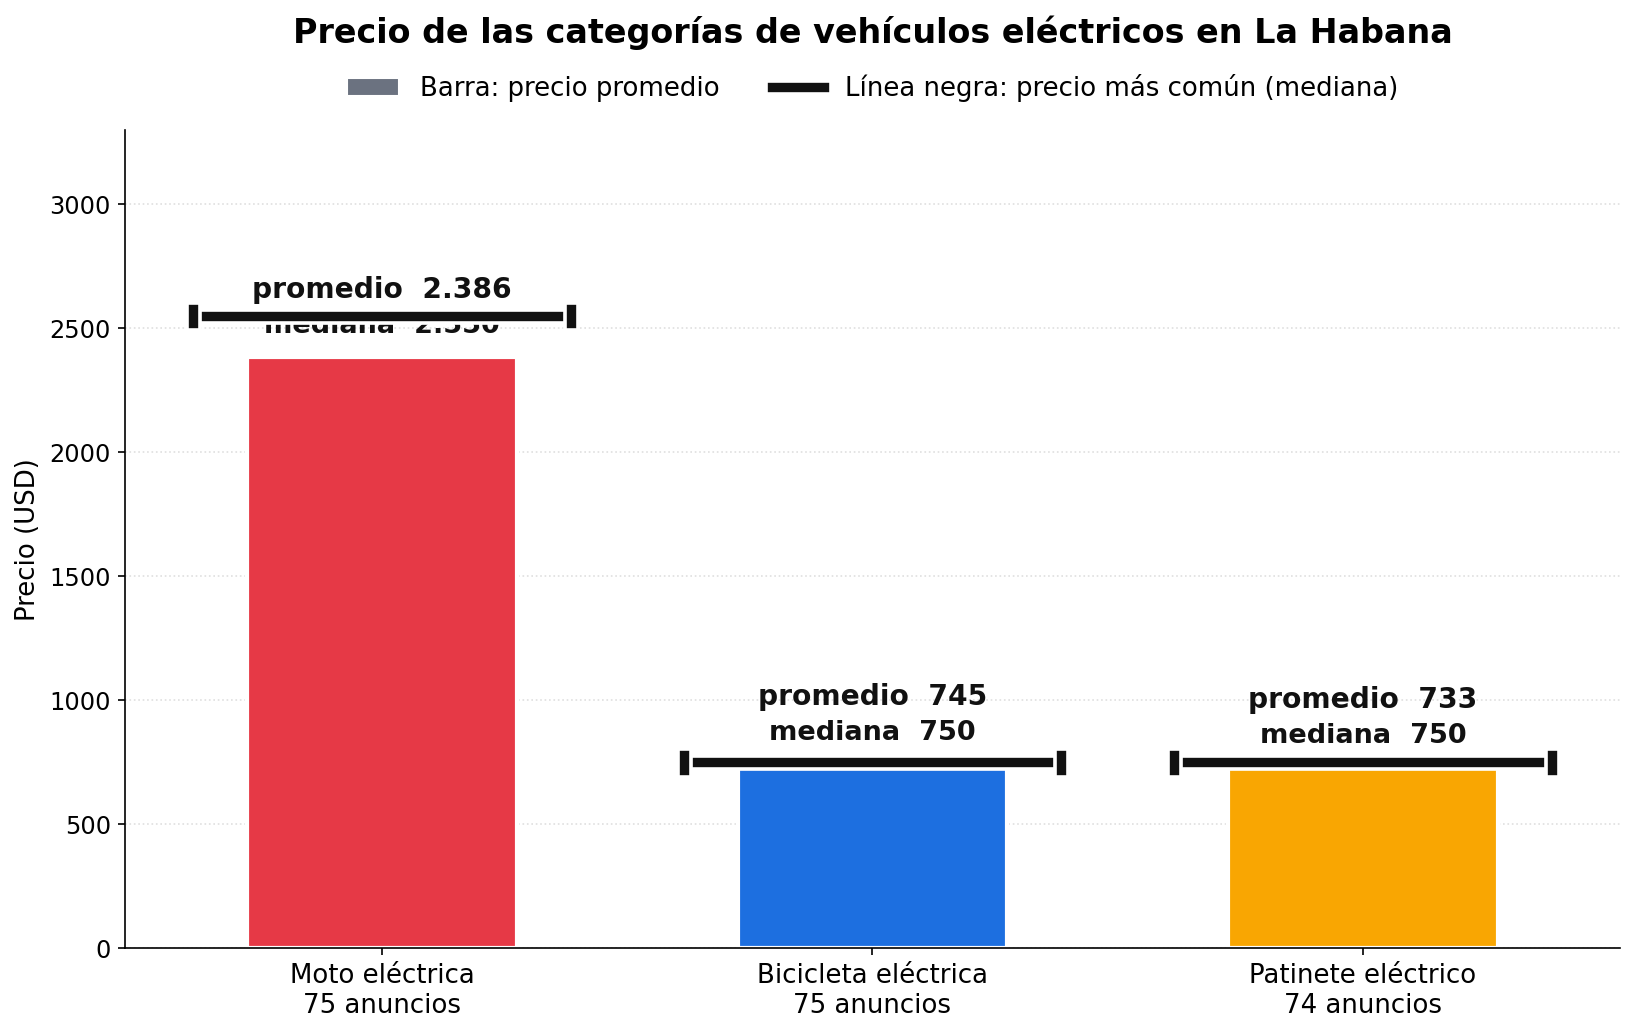
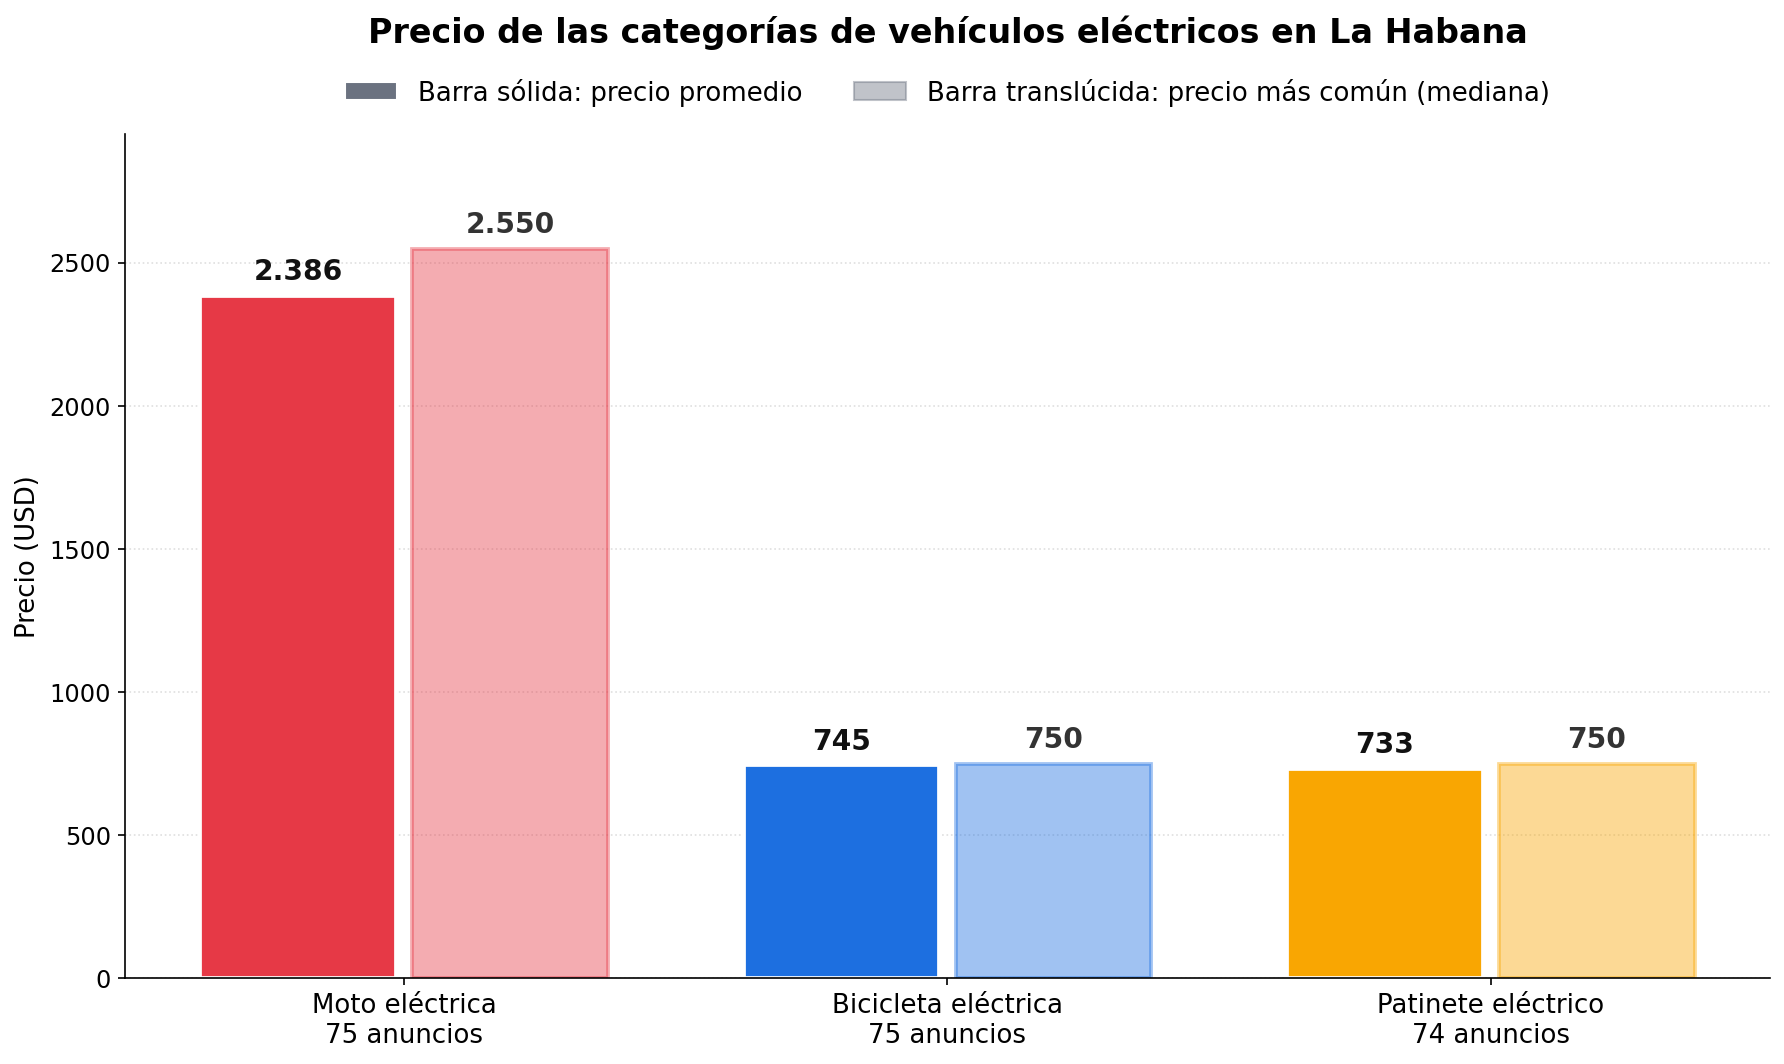
Mediana como barra contigua, sin tabla de fuentes y parrafo de fuentes en la introduccion

Changed region(s): [[0.0, 0.1857, 0.9988, 0.9903], [0.1873, 0.0, 0.9051, 0.0928], [0.0312, 0.1857, 0.0936, 0.2785]]

diff --git a/analisis.py b/analisis.py
@@ -30,7 +30,6 @@ import json
 import statistics as stat
 from pathlib import Path
 
-import matplotlib.patheffects as pe
 import matplotlib.pyplot as plt
 
 # ==============================================================================
@@ -262,56 +261,49 @@ def _leyenda_arriba(ax, casos):
 # --------------------------------- graficos (revolico)
 
 def figura_precios(ruta: Path | None = None):
-    """Barras verticales: precio promedio de cada categoria, con la mediana marcada."""
+    """Barras agrupadas: precio promedio y precio mas comun de cada categoria."""
     resumen = resumen_precios()
 
     nombres = [ETIQUETAS[c] for c in ORDEN]
     promedios = [resumen[c]["promedio"] for c in ORDEN]
     medianas = [resumen[c]["mediana"] for c in ORDEN]
 
-    fig, ax = plt.subplots(figsize=(11, 7))
-    posiciones = list(range(len(nombres)))
-    ancho = 0.55
-    medio = ancho / 2
+    fig, ax = plt.subplots(figsize=(12, 7.2))
+    ancho = 0.36
+    separacion = ancho + 0.03
 
-    ax.bar(posiciones, promedios, ancho,
-           color=[COLORES[c] for c in ORDEN], edgecolor="white", linewidth=2, zorder=2)
+    colores = [COLORES[c] for c in ORDEN]
+    rango = range(len(nombres))
+    centro_promedio = [p - separacion / 2 for p in rango]
+    centro_mediana = [p + separacion / 2 for p in rango]
 
-    # marca de la mediana: linea negra que sobresale de la barra, con borde blanco
-    for p, mediana in zip(posiciones, medianas):
-        ax.plot([p - medio - 0.11, p + medio + 0.11], [mediana, mediana],
-                color="#111111", linewidth=4.5, zorder=4, solid_capstyle="butt",
-                path_effects=[pe.withStroke(linewidth=8, foreground="white")])
-        for extremo in (p - medio - 0.11, p + medio + 0.11):
-            ax.plot([extremo, extremo], [mediana - 30, mediana + 30],
-                    color="#111111", linewidth=4.5, zorder=4,
-                    path_effects=[pe.withStroke(linewidth=8, foreground="white")])
+    ax.bar(centro_promedio, promedios, ancho,
+           color=colores, edgecolor="white", linewidth=1.8, zorder=2)
+    ax.bar(centro_mediana, medianas, ancho,
+           color=colores, alpha=0.42, edgecolor=colores, linewidth=1.8, zorder=2)
 
-    for p, categoria in zip(posiciones, ORDEN):
-        r = resumen[categoria]
-        ax.text(p, r["promedio"] + 235, f"promedio  {r['promedio']:,.0f}".replace(",", "."),
+    for centro, valor in zip(centro_promedio, promedios):
+        ax.text(centro, valor + 55, f"{valor:,.0f}".replace(",", "."),
                 ha="center", fontsize=13.5, fontweight="bold", color="#111111")
-        ax.text(p, r["promedio"] + 95, f"mediana  {r['mediana']:,.0f}".replace(",", "."),
-                ha="center", fontsize=13, fontweight="bold", color="#111111")
+    for centro, valor in zip(centro_mediana, medianas):
+        ax.text(centro, valor + 55, f"{valor:,.0f}".replace(",", "."),
+                ha="center", fontsize=13.5, fontweight="bold", color="#333333")
 
-    ax.set_xticks(posiciones)
+    ax.set_xticks(list(rango))
     ax.set_xticklabels(
         [f"{n}\n{r['anuncios']} anuncios" for n, r in zip(nombres, [resumen[c] for c in ORDEN])],
         fontsize=12.5)
     ax.set_ylabel("Precio (USD)", fontsize=12.5)
-    ax.set_ylim(0, 3300)
+    ax.set_ylim(0, 2950)
     ax.tick_params(axis="y", labelsize=11.5)
     ax.set_title("Precio de las categorías de vehículos eléctricos en La Habana",
-                 fontsize=16, fontweight="bold", pad=42)
+                 fontsize=16, fontweight="bold", pad=44)
 
-    # leyenda general: barra = promedio, linea negra = mediana
-    from matplotlib.lines import Line2D
     from matplotlib.patches import Patch
     _leyenda_arriba(ax, [
-        Patch(facecolor="#6B7280", edgecolor="white", label="Barra: precio promedio"),
-        Line2D([0], [0], color="#111111", linewidth=4.5,
-               path_effects=[pe.withStroke(linewidth=8, foreground="white")],
-               label="Línea negra: precio más común (mediana)"),
+        Patch(facecolor="#6B7280", edgecolor="white", label="Barra sólida: precio promedio"),
+        Patch(facecolor="#6B7280", edgecolor="#6B7280", alpha=0.42,
+              label="Barra translúcida: precio más común (mediana)"),
     ])
 
     ax.spines[["top", "right"]].set_visible(False)

diff --git a/JOURNAL.md b/JOURNAL.md
@@ -93,10 +93,11 @@ conozca el proyecto pueda leerlo y entender cómo se llegó al resultado final.
   cualquier persona pueda leerlo sin conocimientos previos.
 - El lenguaje del notebook es formal y está dirigido a un público general.
 - Ajuste de los gráficos: las leyendas se sostienen encima del área del
-  dibujo para no tapar las barras, la mediana se marcó con una línea negra con borde
-  blanco en lugar de una línea blanca que no se distinguía sobre la barra ámbar, y
-  el encabezado de la fuente pasó a "La fuente: los anuncios de Revolico" para que
-  no se confundiera con el del primer análisis.
+  dibujo para no tapar las barras, y el encabezado de la fuente pasó a
+  "La fuente: los anuncios de Revolico" para que no se confundiera con el del
+  primer análisis.
+- La mediana dejó de representarse con una línea sobre la barra del promedio,
+  que tapaba el valor, y pasó a ser una barra contigua a su lado.
 
 **Problemas**
 
